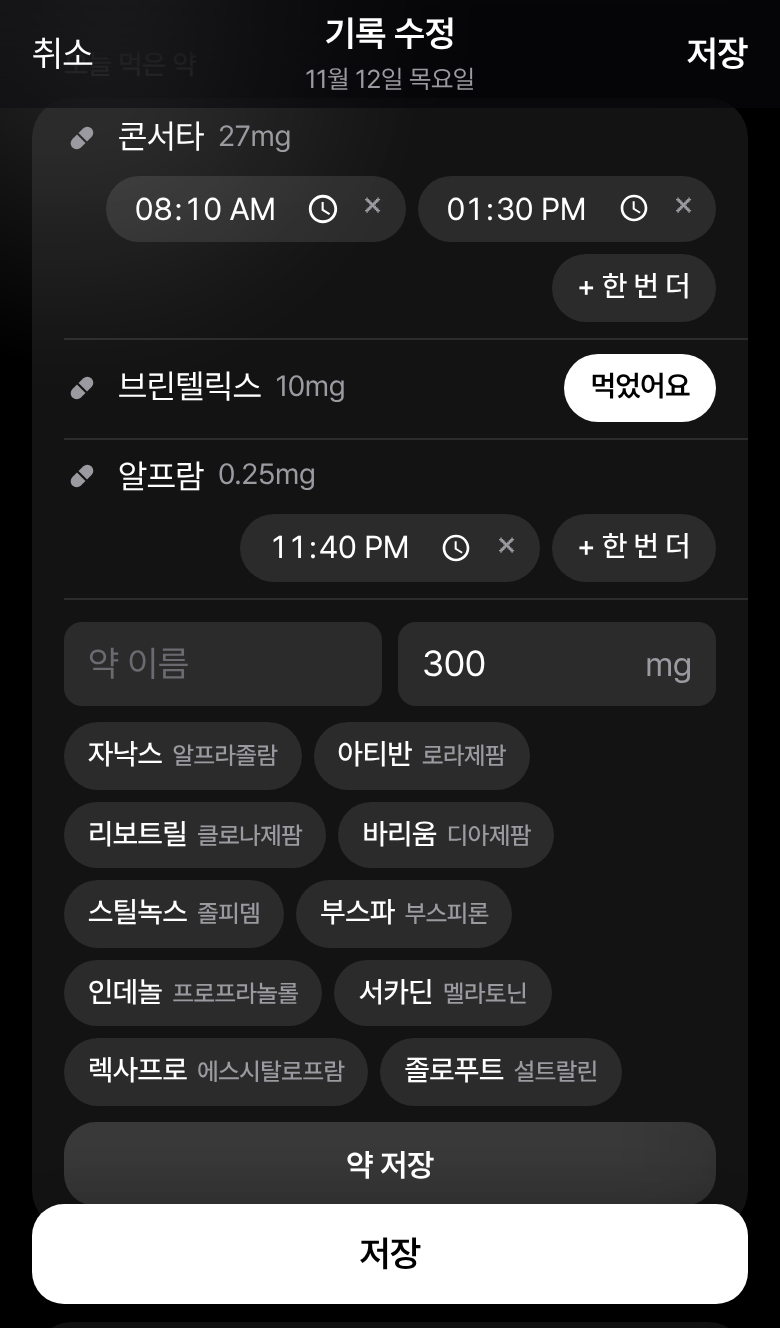
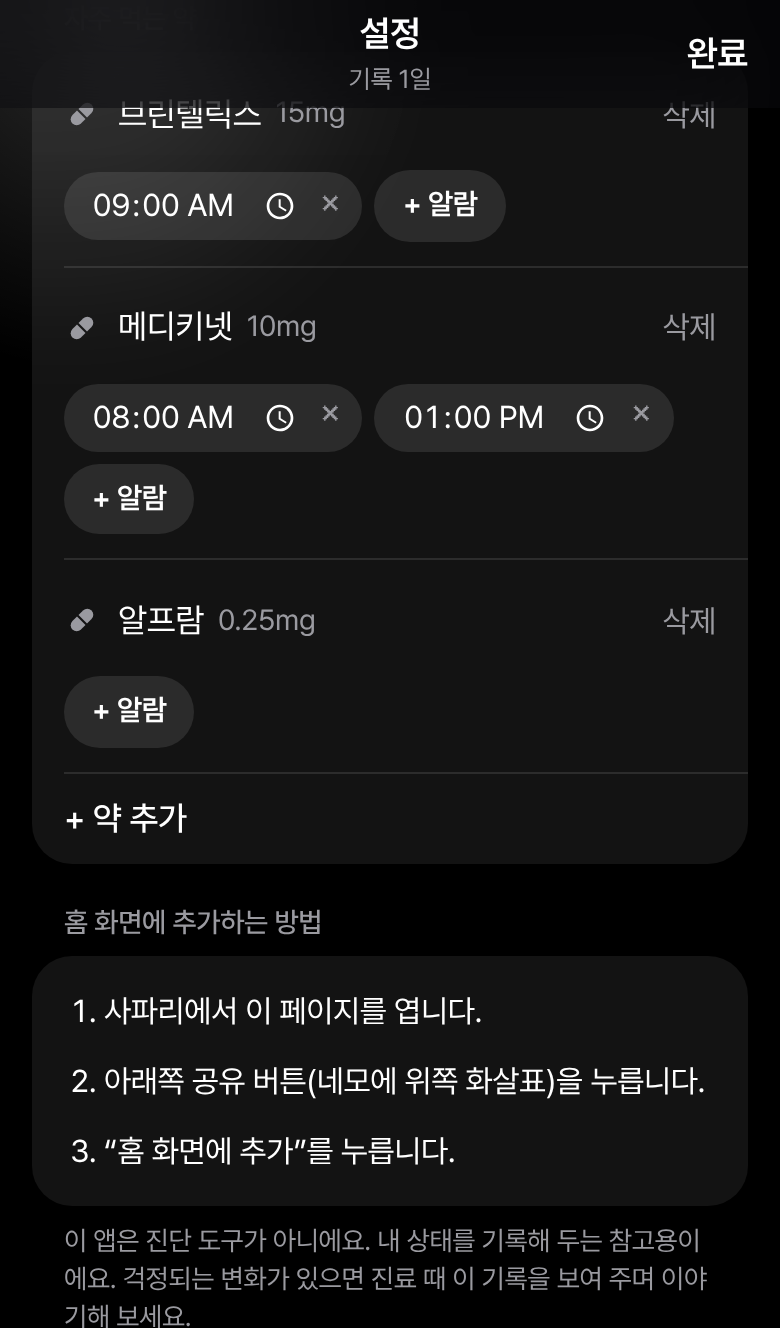
Tide: per-medication alarm times; tapping one item opens only that item
- each saved medication has its own alarm times, exported into the calendar reminder file; the two generic med reminder slots are gone
- tapping a tile or a detail row opens the record sheet with only that item; the full sheet stays behind the main button
- the detail card is hidden when it has no rows

Claude-Session: https://claude.ai/code/session_01Du4KAy7crrN67i73oW7iBF

diff --git a/mood/js/views/record.js b/mood/js/views/record.js
@@ -67,69 +67,72 @@ export function sleepHtml() {
 }
 
 // ---------- 화면 ----------
-// focus: 오늘 화면에서 누른 항목 (mood, energy, conf, sleep). 그 자리로 바로 내려간다.
+// 한 항목만 고칠 때 보여 줄 것: 오늘 화면에서 누른 자리(focus) → [제목, 보여 줄 묶음들]
+const FOCUS = {
+  mood: () => [T('기분'), ['mood', 'signs']],
+  energy: () => [T('에너지'), ['energy', 'signs']],
+  conf: () => [T('자신감'), ['conf', 'signs']],
+  sleep: () => [T('지난밤 수면'), ['sleep']],
+  symptoms: () => [T('증상'), ['symptoms']],
+  body: () => [T('몸'), ['body']],
+  note: () => [T('메모'), ['note']],
+};
+const ALL = ['mood', 'energy', 'conf', 'signs', 'symptoms', 'sleep', 'body', 'meds', 'note'];
+
+// focus가 있으면 그 항목만 뜨고(다른 값은 그대로 보존), 없으면 전체가 뜬다.
 export function openRecord(date, focus) {
   ui.draft = newDraft(date);
   ui.addingMed = false;
   const d = ui.draft, isEdit = !!db.entries[date];
+  const [title, show] = FOCUS[focus] ? FOCUS[focus]() : [isEdit ? T('기록 수정') : T('기록하기'), ALL];
+  const only = !!FOCUS[focus];
   if (focus === 'sleep') d.sleepSet = true;
+
+  const sliders = {
+    mood: slider('mood', '', T('기분'), d.mood, T('가라앉음'), T('들뜸')),
+    energy: slider('energy', '', T('에너지'), d.energy, T('바닥'), T('넘침')),
+    conf: slider('conf', IC.star, T('자신감'), d.conf, T('위축'), T('넘침')),
+  };
+  const scores = show.filter((k) => sliders[k]);
+  const sec = (name) => (only ? '' : `<div class="sec">${name}</div>`);   // 한 항목만 뜰 때는 화면 제목이 이름을 대신한다
+  const parts = {
+    signs: `<div id="signs" hidden><div class="sec">${T('오늘 이런 점이 있었나요?')}</div><section class="card list">${signsHtml()}</section></div>`,
+    symptoms: `${sec(T('증상'))}<section class="card list">
+      ${SYMPTOMS.map(([k, label]) => `<div class="li col"><span class="lk">${label}</span>${seg(k, LEVELS, d[k])}</div>`).join('')}</section>`,
+    sleep: `${sec(T('지난밤 수면'))}<section class="card list" id="sleep">${sleepHtml()}</section>`,
+    body: `${sec(T('몸'))}<section class="card list">
+      ${sw('data-flag="period"', d.period, T('생리 중'), IC.drop)}
+      ${slider('appetite', IC.fork, T('식욕'), d.appetite, T('없음'), T('많음'))}
+      ${drinksHtml(d)}</section>`,
+    meds: `${sec(T('오늘 먹은 약'))}<section class="card list" id="meds">${medsHtml()}</section>`,
+    note: `${sec(T('메모'))}<section class="card list">
+      <div class="li"><textarea id="f-note" rows="4" maxlength="1000" placeholder="${T('오늘 있었던 일이나 느낀 점')}">${esc(d.note || '')}</textarea></div></section>`,
+  };
+
   sheet.innerHTML = `<div class="sheet-in">
     <div class="sheet-top">
       <button class="txt" data-act="close">${T('취소')}</button>
-      <div class="st"><b>${isEdit ? T('기록 수정') : T('기록하기')}</b><span>${longDate(date)}</span></div>
+      <div class="st"><b>${title}</b><span>${longDate(date)}</span></div>
       <button class="txt strong" data-act="save">${T('저장')}</button>
     </div>
-    <p class="secnote top-note">${T('적고 싶은 것만 적으면 돼요. 나머지는 나중에 이어서 적을 수 있어요.')}</p>
-
-    <section class="card list">
-      ${slider('mood', '', T('기분'), d.mood, T('가라앉음'), T('들뜸'))}
-      ${slider('energy', '', T('에너지'), d.energy, T('바닥'), T('넘침'))}
-      ${slider('conf', IC.star, T('자신감'), d.conf, T('위축'), T('넘침'))}
-    </section>
-
-    <div id="signs" hidden>
-      <div class="sec">${T('오늘 이런 점이 있었나요?')}</div>
-      <section class="card list">${signsHtml()}</section>
-    </div>
-
-    <div class="sec">${T('증상')}</div>
-    <section class="card list">
-      ${SYMPTOMS.map(([k, label]) => `<div class="li col"><span class="lk">${label}</span>${seg(k, LEVELS, d[k])}</div>`).join('')}
-    </section>
-
-    <div class="sec">${T('지난밤 수면')}</div>
-    <section class="card list" id="sleep">${sleepHtml()}</section>
-
-    <div class="sec">${T('몸')}</div>
-    <section class="card list">
-      ${sw('data-flag="period"', d.period, T('생리 중'), IC.drop)}
-      ${slider('appetite', IC.fork, T('식욕'), d.appetite, T('없음'), T('많음'))}
-      ${drinksHtml(d)}
-    </section>
-
-    <div class="sec">${T('오늘 먹은 약')}</div>
-    <section class="card list" id="meds">${medsHtml()}</section>
-
-    <div class="sec">${T('메모')}</div>
-    <section class="card list">
-      <div class="li"><textarea id="f-note" rows="4" maxlength="1000" placeholder="${T('오늘 있었던 일이나 느낀 점')}">${esc(d.note || '')}</textarea></div>
-    </section>
-
-    ${isEdit ? `<button class="btn plain danger" data-act="deleteEntry">${T('이 날 기록 삭제')}</button>` : ''}
+    ${only ? '' : `<p class="secnote top-note">${T('적고 싶은 것만 적으면 돼요. 나머지는 나중에 이어서 적을 수 있어요.')}</p>`}
+    ${scores.length ? `<section class="card list">${scores.map((k) => sliders[k]).join('')}</section>` : ''}
+    ${show.filter((k) => parts[k]).map((k) => parts[k]).join('')}
+    ${isEdit && !only ? `<button class="btn plain danger" data-act="deleteEntry">${T('이 날 기록 삭제')}</button>` : ''}
     <div class="savebar"><button class="btn" data-act="save">${T('저장')}</button></div>
   </div>`;
   showSheet();
   syncForm();
-  const target = focus && $(focus === 'sleep' ? '#sleep' : `#row-${focus}`);
-  if (target) target.scrollIntoView({ block: 'center' });
 }
 
 // 값에 따라 숫자·이름·아이콘·체크리스트·수면 시간을 바로 갱신
 export function syncForm() {
   const d = ui.draft;
   if (!d) return;
+  // 한 항목만 띄운 화면에서는 나머지 칸이 없다. 화면에 있는 것만 갱신한다.
   SLIDERS.forEach((k) => {
     const v = d[k], input = $(`#f-${k}`), col = tone(k, v);
+    if (!input) return;
     $(`#v-${k}`).textContent = v == null ? '' : v;
     $(`#n-${k}`).textContent = v == null ? T('기록 없음') : nameOf(k, v);
     $(`#n-${k}`).classList.toggle('unset', v == null);
@@ -137,10 +140,11 @@ export function syncForm() {
     input.style.setProperty('--v', (v == null ? SLIDER_START : v) / 10);
     if (col) input.style.setProperty('--tone', col); else input.style.removeProperty('--tone');
   });
-  $('#i-mood').innerHTML = IC.face(d.mood == null ? SLIDER_START : d.mood);
-  $('#i-energy').innerHTML = IC.battery(d.energy == null ? SLIDER_START : d.energy);
-  $('#signs').hidden = !isHigh(d);
-  if (d.sleepSet) $('#v-sleep').textContent = durText(sleepMinutes(d.bed, d.wake));
+  const put = (sel, fn) => { const el = $(sel); if (el) fn(el); };
+  put('#i-mood', (el) => { el.innerHTML = IC.face(d.mood == null ? SLIDER_START : d.mood); });
+  put('#i-energy', (el) => { el.innerHTML = IC.battery(d.energy == null ? SLIDER_START : d.energy); });
+  put('#signs', (el) => { el.hidden = !isHigh(d); });
+  put('#v-sleep', (el) => { el.textContent = durText(sleepMinutes(d.bed, d.wake)); });
 }
 
 // 적은 것이 하나라도 있는지

diff --git a/mood/js/views/settings.js b/mood/js/views/settings.js
@@ -4,6 +4,7 @@ import { DISCLAIMER, FONTS, SIZES } from '../constants.js';
 import { esc, sheet, showSheet } from '../dom.js';
 import { remind } from '../files.js';
 import { EN, F, T } from '../i18n.js';
+import { IC } from '../icons.js';
 import { medAddHtml, medKey } from '../meds.js';
 import { standalone } from '../state.js';
 import { db } from '../store.js';
@@ -14,10 +15,14 @@ export function openSettings() {
   const n = Object.keys(db.entries).length;
   const pick = (act, attr, on, label, style) => `<button class="li med" data-act="${act}" ${attr} aria-pressed="${on}"${style ? ` style="${style}"` : ''}>
     <span class="lk">${label}</span><span class="chk">✓</span></button>`;
-  const meds = db.meds.length
-    ? db.meds.map((m) => `<div class="li"><span class="lk">${esc(m.name)}<small>${esc(m.dose || '')}</small></span>
-        <button class="txt dim" data-act="delMed" data-med="${esc(medKey(m))}">${T('삭제')}</button></div>`).join('')
-    : '';
+  // 약마다: 이름·용량, 삭제, 그리고 알람 시각들 (캘린더 알림 파일에 들어간다)
+  const meds = db.meds.map((m, mi) => `<div class="li col">
+      <div class="slh"><span class="lk">${IC.pill}${esc(m.name)}<small>${esc(m.dose || '')}</small></span>
+        <button class="txt dim" data-act="delMed" data-med="${esc(medKey(m))}">${T('삭제')}</button></div>
+      <div class="doses alarms">${(m.alarms || []).map((time, i) => `<span class="dose"><input type="time" class="alarm-at" data-m="${mi}" data-i="${i}" value="${esc(time)}" aria-label="${T('알람 시각')}">
+        <button type="button" data-act="alarmDel" data-m="${mi}" data-i="${i}" aria-label="${T('삭제')}">✕</button></span>`).join('')}
+        <button type="button" class="mini" data-act="alarmAdd" data-m="${mi}">${T('+ 알람')}</button></div>
+    </div>`).join('');
   sheet.innerHTML = `<div class="sheet-in" style="padding-bottom:calc(var(--safe-b) + 30px)">
     <div class="sheet-top">
       <span class="txt"></span>
@@ -40,11 +45,9 @@ export function openSettings() {
     <div class="sec">${T('알림')}</div>
     <section class="card list">
       <label class="li"><span class="lk">${T('기록 알림')}</span><input type="time" id="r-log" value="${esc(remind().log || '')}"></label>
-      <label class="li"><span class="lk">${T('약 알림 1')}</span><input type="time" id="r-med1" value="${esc(remind().med1 || '')}"></label>
-      <label class="li"><span class="lk">${T('약 알림 2')}</span><input type="time" id="r-med2" value="${esc(remind().med2 || '')}"></label>
       <button class="li add" data-act="ics">${T('캘린더에 알림 추가')}</button>
     </section>
-    <p class="secnote">${T('아이폰 웹앱은 정해진 시간에 스스로 알림을 보낼 수 없어요. 대신 매일 반복되는 캘린더 알림 파일을 만들어 드려요. 시간을 정하고 버튼을 누른 뒤 “캘린더에 추가”를 고르세요. 안 쓰는 알림은 시간을 비워 두면 돼요.')}</p>
+    <p class="secnote">${T('아이폰 웹앱은 정해진 시간에 스스로 알림을 보낼 수 없어요. 대신 매일 반복되는 캘린더 알림 파일을 만들어 드려요. 약 알람은 아래 “자주 먹는 약”에서 약마다 정하고, 버튼을 누른 뒤 “캘린더에 추가”를 고르세요. 시간을 바꿨으면 캘린더에서 예전 Tide 알림을 지우고 다시 추가해 주세요.')}</p>
 
     <div class="sec">${T('글씨체')}</div>
     <section class="card list">${Object.keys(FONTS).map((k) => pick('font', `data-font="${k}"`, (db.settings.font || 'system') === k,

diff --git a/mood/js/main.js b/mood/js/main.js
@@ -2,7 +2,7 @@
 import { aiSummary } from './analysis.js';
 import { addDays, today } from './dates.js';
 import { $, app, closeSheet, enterApp, sheet, sheetOpen, toTop, toast } from './dom.js';
-import { exportData, giveFile, importData, makeIcs, remind } from './files.js';
+import { exportData, giveFile, hasAlarms, importData, makeIcs, remind } from './files.js';
 import { T } from './i18n.js';
 import { addDose, medKey, medsFor, normDose, setMeds, sugHtml, toggleDoseTime } from './meds.js';
 import { render } from './render.js';
@@ -24,6 +24,13 @@ function commitDoses(list) {
   render();
 }
 
+// 설정 화면을 스크롤 자리를 지킨 채 다시 그린다
+function redrawSettings() {
+  const y = sheet.scrollTop;
+  openSettings();
+  sheet.scrollTop = y;
+}
+
 // ---------- 이벤트 ----------
 const actions = {
   tab: (el) => { if (ui.tab === el.dataset.tab) return; ui.tab = el.dataset.tab; toTop(); render(); enterApp(); },
@@ -33,10 +40,12 @@ const actions = {
   doseTime: (el) => { const list = doseList(); toggleDoseTime(list[Number(el.dataset.i)]); commitDoses(list); },
   doseDel: (el) => { const list = doseList(); list.splice(Number(el.dataset.i), 1); commitDoses(list); },
   ics: async () => {
-    const r = remind();
-    if (!r.log && !r.med1 && !r.med2) { toast(T('알림 시간을 먼저 정해 주세요')); return; }
+    if (!hasAlarms()) { toast(T('알림 시간을 먼저 정해 주세요')); return; }
     await giveFile('tide-reminders.ics', makeIcs(), 'text/calendar');
   },
+  // 설정: 약마다 알람 시각 더하기·지우기 (시각 고치기는 아래 input 처리에서)
+  alarmAdd: (el) => { const m = db.meds[Number(el.dataset.m)]; m.alarms = (m.alarms || []).concat('09:00'); save(); redrawSettings(); },
+  alarmDel: (el) => { db.meds[Number(el.dataset.m)].alarms.splice(Number(el.dataset.i), 1); save(); redrawSettings(); },
   copyAi: async () => {
     const text = aiSummary();
     try { await navigator.clipboard.writeText(text); }
@@ -78,7 +87,7 @@ const actions = {
   },
   addMed: () => {
     ui.addingMed = !ui.addingMed;
-    if (ui.draft) $('#meds').innerHTML = medsHtml(); else { const y = sheet.scrollTop; openSettings(); sheet.scrollTop = y; }
+    if (ui.draft) $('#meds').innerHTML = medsHtml(); else redrawSettings();
     if (ui.addingMed) $('#med-name').focus();
   },
   pickSug: (el) => { $('#med-name').value = el.dataset.name; $('#med-sug').innerHTML = ''; $('#med-dose').focus(); },
@@ -90,7 +99,7 @@ const actions = {
     if (!db.meds.some((x) => medKey(x) === medKey(m))) { db.meds.push(m); save(); }
     ui.addingMed = false;
     if (ui.draft) $('#meds').innerHTML = medsHtml();
-    else { const y = sheet.scrollTop; render(); openSettings(); sheet.scrollTop = y; }
+    else { render(); redrawSettings(); }
   },
   delMed: (el) => {
     db.meds = db.meds.filter((m) => medKey(m) !== el.dataset.med);
@@ -137,6 +146,7 @@ sheet.addEventListener('input', (ev) => {
   const d = ui.draft, el = ev.target;
   if (el.id === 'med-name') { $('#med-sug').innerHTML = sugHtml(el.value.trim()); return; }
   if (el.id.startsWith('r-')) { remind()[el.id.slice(2)] = el.value; save(); return; }
+  if (el.classList.contains('alarm-at')) { db.meds[Number(el.dataset.m)].alarms[Number(el.dataset.i)] = el.value; save(); return; }
   if (!d) return;
   const k = el.id.slice(2);
   if (SLIDERS.includes(k)) d[k] = Number(el.value);

diff --git a/mood/js/views/today.js b/mood/js/views/today.js
@@ -11,7 +11,10 @@ import { db } from '../store.js';
 import { moodFill, tone } from '../theme.js';
 
 // ---------- 오늘 화면 ----------
-export const li = (left, right) => `<div class="li"><span class="lk">${left}</span><span class="lv">${right}</span></div>`;
+// 목록 한 줄. focus를 주면 누를 수 있는 줄이 되고, 기록 화면이 그 항목만 띄운 채 열린다.
+export const li = (left, right, focus) => (focus
+  ? `<button class="li" data-act="record" data-focus="${focus}"><span class="lk">${left}</span><span class="lv">${right}</span></button>`
+  : `<div class="li"><span class="lk">${left}</span><span class="lv">${right}</span></div>`);
 
 export function viewToday() {
   const t = today(), sel = ui.selected, ws = weekStart(sel), e = db.entries[sel];
@@ -86,16 +89,18 @@ export function detailHtml(e) {
   // 저장된 약 목록에 없는 약(목록에서 지운 약)만 여기 글로 보여 준다. 나머지는 위 약 카드에 있다.
   const extra = db.meds.length ? '' : esc(medsText(e.meds || []));
   const ten = (key, v) => `${nameOf(key, v)}<span class="of"> ${v}</span>`;
-  const sym = (label, v) => (v ? li(label, `${LEVELS[v]}${bars(v)}`) : '');
-  return `<section class="card list">
-      ${sym(T('우울'), e.dep)}${sym(T('고조'), e.elev)}${sym(T('불안'), e.anx)}
-      ${e.tired ? li(`${IC.moon}${T('일어났을 때')}`, T('피곤')) : ''}
-      ${e.period ? li(`${IC.drop}${T('생리')}`, T('생리 중')) : ''}
-      ${e.appetite != null ? li(`${IC.fork}${T('식욕')}`, ten('appetite', e.appetite)) : ''}
-      ${e.drinks ? li(`${IC.coffee}${T('카페인')}`, cafMg(e.drinks) ? `${drinkText(e.drinks)}<span class="of"> · ${F('약 {0}mg', cafMg(e.drinks))}</span>` : nameOf('caffeine', 0))
-        : e.caffeine != null ? li(`${IC.coffee}${T('카페인')}`, ten('caffeine', e.caffeine)) : ''}
-      ${extra ? li(`${IC.pill}${T('약')}`, extra) : ''}
-      ${signs.length ? li(T('체크'), signs.map(esc).join('<br>')) : ''}
-      ${e.note ? `<div class="li say note">${esc(e.note)}</div>` : ''}
-    </section>`;
+  const sym = (label, v) => (v ? li(label, `${LEVELS[v]}${bars(v)}`, 'symptoms') : '');
+  // 줄을 누르면 그 항목만 고치는 화면이 열린다
+  const rows = [
+    sym(T('우울'), e.dep), sym(T('고조'), e.elev), sym(T('불안'), e.anx),
+    e.tired ? li(`${IC.moon}${T('일어났을 때')}`, T('피곤'), 'sleep') : '',
+    e.period ? li(`${IC.drop}${T('생리')}`, T('생리 중'), 'body') : '',
+    e.appetite != null ? li(`${IC.fork}${T('식욕')}`, ten('appetite', e.appetite), 'body') : '',
+    e.drinks ? li(`${IC.coffee}${T('카페인')}`, cafMg(e.drinks) ? `${drinkText(e.drinks)}<span class="of"> · ${F('약 {0}mg', cafMg(e.drinks))}</span>` : nameOf('caffeine', 0), 'body')
+      : e.caffeine != null ? li(`${IC.coffee}${T('카페인')}`, ten('caffeine', e.caffeine), 'body') : '',
+    extra ? li(`${IC.pill}${T('약')}`, extra) : '',
+    signs.length ? li(T('체크'), signs.map(esc).join('<br>')) : '',
+    e.note ? `<button class="li say note" data-act="record" data-focus="note">${esc(e.note)}</button>` : '',
+  ].join('');
+  return rows ? `<section class="card list">${rows}</section>` : '';
 }

diff --git a/mood/tests/smoke.js b/mood/tests/smoke.js
@@ -104,7 +104,8 @@ function seed() {
 
   // 4-1. 이어서 적기: 나중에 다른 항목만 더해도 먼저 적은 것은 그대로다
   await page.click('.tile[data-focus=energy]');
-  check('타일을 누르면 기록 화면이 열리고 먼저 적은 값이 보임', (await text('#v-mood')) === '3' && (await text('#n-energy')) === '기록 없음');
+  check('타일을 누르면 그 항목만 뜸', (await text('#n-energy')) === '기록 없음' && (await text('.st b')) === '에너지'
+    && (await page.$$('#f-mood, #f-conf, #sleep, #meds, #f-note, [data-act=deleteEntry]')).length === 0);
   await page.click('#f-energy');   // 빈 슬라이더는 누르기만 해도 값이 생긴다
   check('빈 슬라이더를 누르면 값이 생김', (await text('#v-energy')) !== '');
   await page.click('[data-act=clearField][data-k=energy]');
@@ -123,6 +124,24 @@ function seed() {
   await page.click('.tile[data-focus=sleep]');
   check('수면 타일을 누르면 시각 칸이 바로 열림', await page.isVisible('#f-bed'));
   await page.click('.sheet-top [data-act=close]');
+  await page.click('#app button.li[data-focus=symptoms]');
+  check('목록 줄을 누르면 그 항목만 뜸', (await text('.st b')) === '증상' && (await page.$$('[data-field=elev]')).length === 1 && (await page.$$('#f-mood, #sleep')).length === 0);
+  await page.click('[data-field=anx] [data-v="2"]');
+  await page.click('.savebar [data-act=save]');
+  e = (await store()).entries[today];
+  check('한 항목만 고쳐도 나머지는 그대로', e.anx === 2 && e.elev === 3 && e.mood === 3 && e.energy === 6, JSON.stringify(e));
+
+  // 4-1-2. 약마다 알람 시각을 정하면 캘린더 알림 파일에 들어간다
+  await page.click('[data-act=settings]');
+  await page.click('[data-act=alarmAdd]'); await page.click('[data-act=alarmAdd]');
+  await page.fill('.alarm-at >> nth=0', '08:30'); await page.fill('.alarm-at >> nth=1', '21:00');
+  check('약 알람 시각 저장', JSON.stringify((await store()).meds[0].alarms) === '["08:30","21:00"]');
+  const [icsFile] = await Promise.all([page.waitForEvent('download'), page.click('[data-act=ics]')]);
+  const ics = fs.readFileSync(await icsFile.path(), 'utf8');
+  check('알림 파일에 약 이름과 시각이 들어감', ics.includes('알프람 0.25mg 먹을 시간') && ics.includes('T083000') && ics.includes('T210000') && ics.includes('Tide 기록하기'), ics.slice(0, 200));
+  await page.click('[data-act=alarmDel] >> nth=1');
+  check('약 알람 지우기', (await store()).meds[0].alarms.length === 1);
+  await page.click('[data-act=close]');
 
   // 4-2. 기록을 쓰기 전에도 약을 체크할 수 있고, 기록할 때 이어진다
   await put({ version: 2, entries: {}, meds: [{ name: '콘서타', dose: '27mg' }], taken: {}, settings: { hintClosed: true } });

diff --git a/mood/js/files.js b/mood/js/files.js
@@ -7,7 +7,9 @@ import { render } from './render.js';
 import { db, migrate, save } from './store.js';
 import { openSettings } from './views/settings.js';
 
-export const remind = () => (db.settings.remind || (db.settings.remind = { log: '21:30', med1: '', med2: '' }));
+// 기록 알림 시각은 설정에, 약 알람 시각은 약마다(db.meds[i].alarms = ['09:00', ...]) 둔다
+export const remind = () => (db.settings.remind || (db.settings.remind = { log: '21:30' }));
+export const hasAlarms = () => !!remind().log || db.meds.some((m) => (m.alarms || []).some(Boolean));
 // 매일 반복되는 캘린더 알림 파일(.ics)을 만든다
 export function makeIcs() {
   const r = remind(), day = today().replace(/-/g, '');
@@ -15,8 +17,10 @@ export function makeIcs() {
   const url = location.href.split('#')[0];
   const ev = (uid, time, title) => (time ? ['BEGIN:VEVENT', `UID:${uid}@tide-app`, `DTSTAMP:${stamp}`, `DTSTART:${day}T${time.replace(':', '')}00`,
     'DURATION:PT5M', 'RRULE:FREQ=DAILY', `SUMMARY:${title}`, `URL:${url}`, 'BEGIN:VALARM', 'ACTION:DISPLAY', `DESCRIPTION:${title}`, 'TRIGGER:PT0M', 'END:VALARM', 'END:VEVENT'] : []);
+  const medEvents = db.meds.flatMap((m, i) => [...new Set((m.alarms || []).filter(Boolean))].flatMap((time) =>
+    ev(`med${i}-${time.replace(':', '')}`, time, F('{0} 먹을 시간', `${m.name}${m.dose ? ` ${m.dose}` : ''}`))));
   return ['BEGIN:VCALENDAR', 'VERSION:2.0', 'PRODID:-//Tide//Reminders//KO', 'CALSCALE:GREGORIAN',
-    ...ev('log', r.log, T('Tide 기록하기')), ...ev('med1', r.med1, T('약 먹을 시간')), ...ev('med2', r.med2, T('약 먹을 시간')), 'END:VCALENDAR'].join('\r\n');
+    ...ev('log', r.log, T('Tide 기록하기')), ...medEvents, 'END:VCALENDAR'].join('\r\n');
 }
 
 // 파일 건네기: 아이폰에서는 공유 창, 그 밖에는 내려받기
@@ -59,7 +63,7 @@ export function importData(file) {
       if (!cur || (e.updatedAt || '') >= (cur.updatedAt || '')) db.entries[e.date] = e;
     });
     (Array.isArray(inc.meds) ? inc.meds : []).forEach((m) => {
-      if (m && m.name && !db.meds.some((s) => medKey(s) === medKey(m))) db.meds.push({ name: String(m.name), dose: String(m.dose || '') });
+      if (m && m.name && !db.meds.some((s) => medKey(s) === medKey(m))) db.meds.push({ name: String(m.name), dose: String(m.dose || ''), alarms: (Array.isArray(m.alarms) ? m.alarms : []).filter((t) => /^\d\d:\d\d$/.test(t)) });
     });
     Object.keys(inc.taken || {}).forEach((k) => { if (!db.taken[k] && !db.entries[k] && Array.isArray(inc.taken[k])) db.taken[k] = inc.taken[k]; });
     if (!save()) return;

diff --git a/mood/js/i18n.js b/mood/js/i18n.js
@@ -34,13 +34,13 @@ const DICT = {
   '다크': 'Dark',
   '알림': 'Reminders',
   '기록 알림': 'Log reminder',
-  '약 알림 1': 'Med reminder 1',
-  '약 알림 2': 'Med reminder 2',
+  '+ 알람': '+ Alarm',
+  '알람 시각': 'Alarm time',
   '캘린더에 알림 추가': 'Add reminders to Calendar',
   'Tide 기록하기': 'Tide: log today',
-  '약 먹을 시간': 'Time to take your meds',
+  '{0} 먹을 시간': 'Time to take {0}',
   '알림 시간을 먼저 정해 주세요': 'Set a reminder time first',
-  '아이폰 웹앱은 정해진 시간에 스스로 알림을 보낼 수 없어요. 대신 매일 반복되는 캘린더 알림 파일을 만들어 드려요. 시간을 정하고 버튼을 누른 뒤 “캘린더에 추가”를 고르세요. 안 쓰는 알림은 시간을 비워 두면 돼요.': 'An iPhone web app cannot send scheduled notifications on its own. Instead this makes a calendar file with daily repeating alerts. Set the times, tap the button, then choose “Add to Calendar”. Leave a time empty to skip that reminder.',
+  '아이폰 웹앱은 정해진 시간에 스스로 알림을 보낼 수 없어요. 대신 매일 반복되는 캘린더 알림 파일을 만들어 드려요. 약 알람은 아래 “자주 먹는 약”에서 약마다 정하고, 버튼을 누른 뒤 “캘린더에 추가”를 고르세요. 시간을 바꿨으면 캘린더에서 예전 Tide 알림을 지우고 다시 추가해 주세요.': 'An iPhone web app cannot send scheduled notifications on its own. Instead this makes a calendar file with daily repeating alerts. Set alarm times per medication under “Saved meds” below, tap the button, then choose “Add to Calendar”. If you change a time, delete the old Tide alerts in Calendar and add them again.',
   '평소와 비슷': 'About your usual',
   '평소보다 {0} 김': '{0} more than usual',
   '평소보다 {0} 짧음': '{0} less than usual',

diff --git a/mood/sw.js b/mood/sw.js
@@ -1,7 +1,7 @@
 // 오프라인에서도 열리도록 앱 파일을 저장해 둔다.
 // 인터넷이 될 때는 항상 최신 파일을 먼저 받아오고, 안 될 때만 저장본을 쓴다.
 // 앱 파일을 바꿔서 올릴 때마다 CACHE 숫자를 하나 올린다. js/ 에 파일을 더하면 JS 목록에도 더한다.
-const CACHE = 'tide-v42';
+const CACHE = 'tide-v43';
 const JS = ['main', 'config', 'i18n', 'constants', 'store', 'dates', 'theme', 'icons', 'dom', 'state', 'meds', 'analysis', 'files', 'render', 'swipe',
   'views/today', 'views/trend', 'views/insight', 'views/record', 'views/settings'];
 const FILES = ['./', 'index.html', 'app.css', 'manifest.webmanifest',

diff --git a/mood/app.css b/mood/app.css
@@ -316,3 +316,9 @@ input[type=range].unset { opacity: .45; }
 .cdot.part { background: var(--card2); }
 .tile .word.unset { font-size: calc(15px * var(--fs, 1.12)); font-weight: 500; letter-spacing: 0; line-height: 1.75; }
 .slv .nm.unset { color: var(--faint); font-weight: 400; }
+
+/* 설정: 약마다 알람 시각 */
+.alarms { flex-wrap: wrap; justify-content: flex-start; margin-left: 0; }
+.dose input[type=time] { background: transparent; padding: 5px 0 5px 10px; font-size: calc(14px * var(--fs, 1.12)); min-width: 0; }
+button.li { text-align: left; }
+button.li .lv { margin-left: auto; }

diff --git a/mood/js/config.js b/mood/js/config.js
@@ -2,4 +2,4 @@
 export const KEY = 'tide.v1', OLD_KEY = 'harugyeol.v1';
 
 // 설정 화면 맨 아래에 보이는 번호. 올릴 때마다 sw.js의 CACHE 숫자와 같이 하나 올린다.
-export const VERSION = 42;
+export const VERSION = 43;
